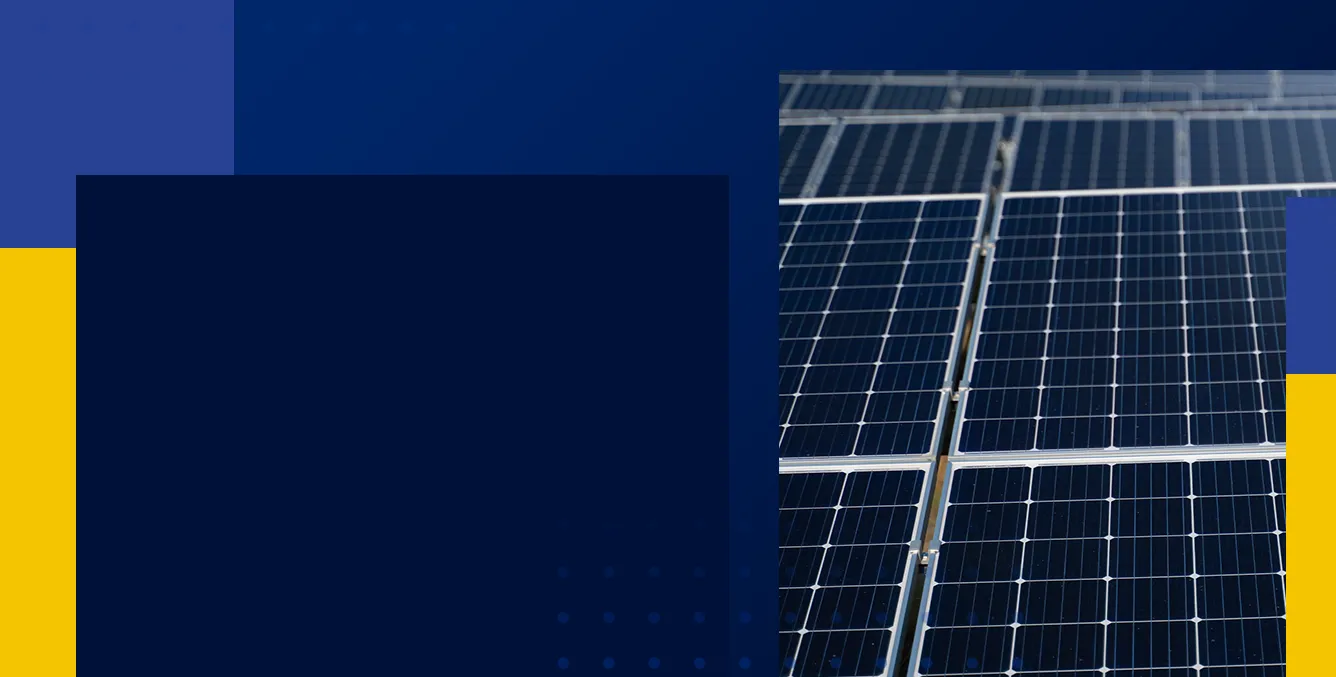
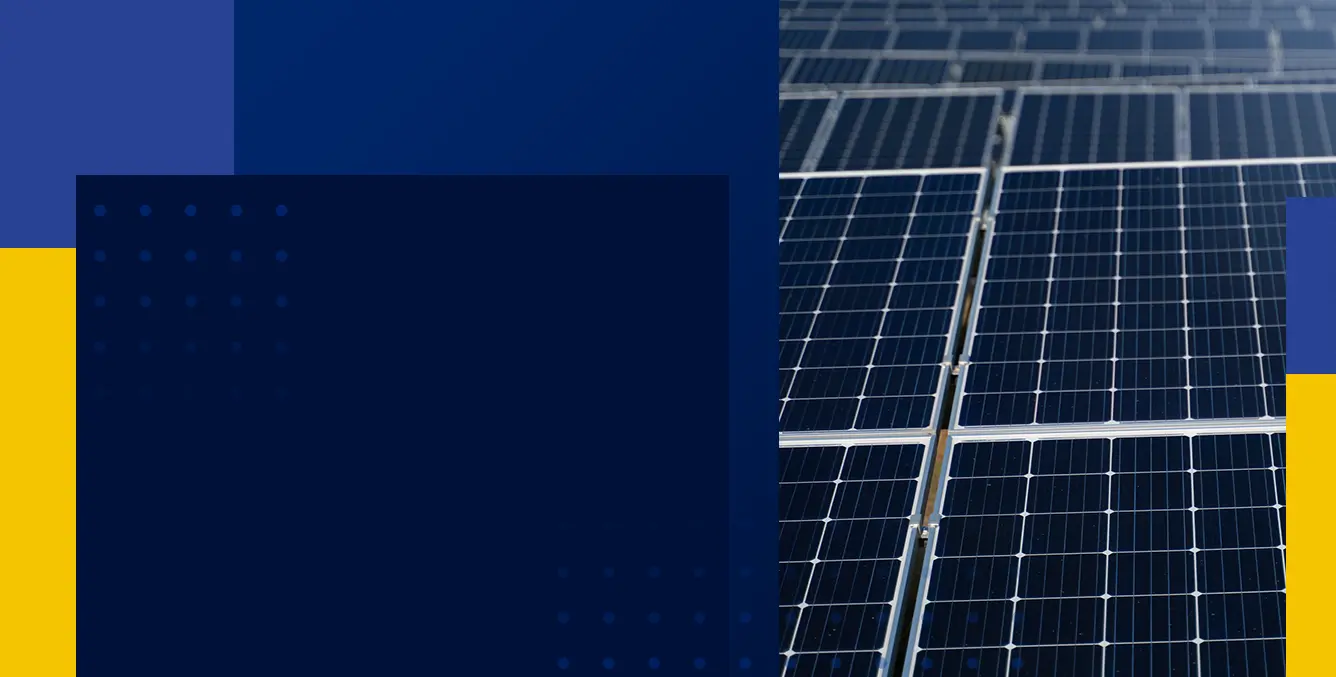
Replaced large hero bg

Changed region(s): [[0.5831, 0.0, 1.0, 1.0]]

diff --git a/app/index.html b/app/index.html
@@ -35,7 +35,7 @@
         <div class="wrapper wrapper--nav">
             <nav>
                 <ul class="menu">
-                  <li class="logo"><a title="Catur Elang Energi" href="/"><img alt="Catur Elang Energi" src="assets/images/catur_elang_energi.webp"></a></li>
+                  <li class="logo"><a title="Catur Elang Energi" href="/"><img alt="Catur Elang Energi" src="assets/images/catur_elang_energi_new.png"></a></li>
                   <li class="item"><a title="Beranda" href="/">Beranda</a></li>
                   <li class="item"><a title="Tentang" href="/about">Tentang</a></li>
                   <li class="item has-submenu">

diff --git a/app/assets/styles/modules/_large-hero.css b/app/assets/styles/modules/_large-hero.css
@@ -53,7 +53,7 @@
         }
 
         @mixin atSmall {
-            font-size: 5rem;
+            font-size: 6rem;
             text-align: inherit;
             margin-top: 6rem;
         }
